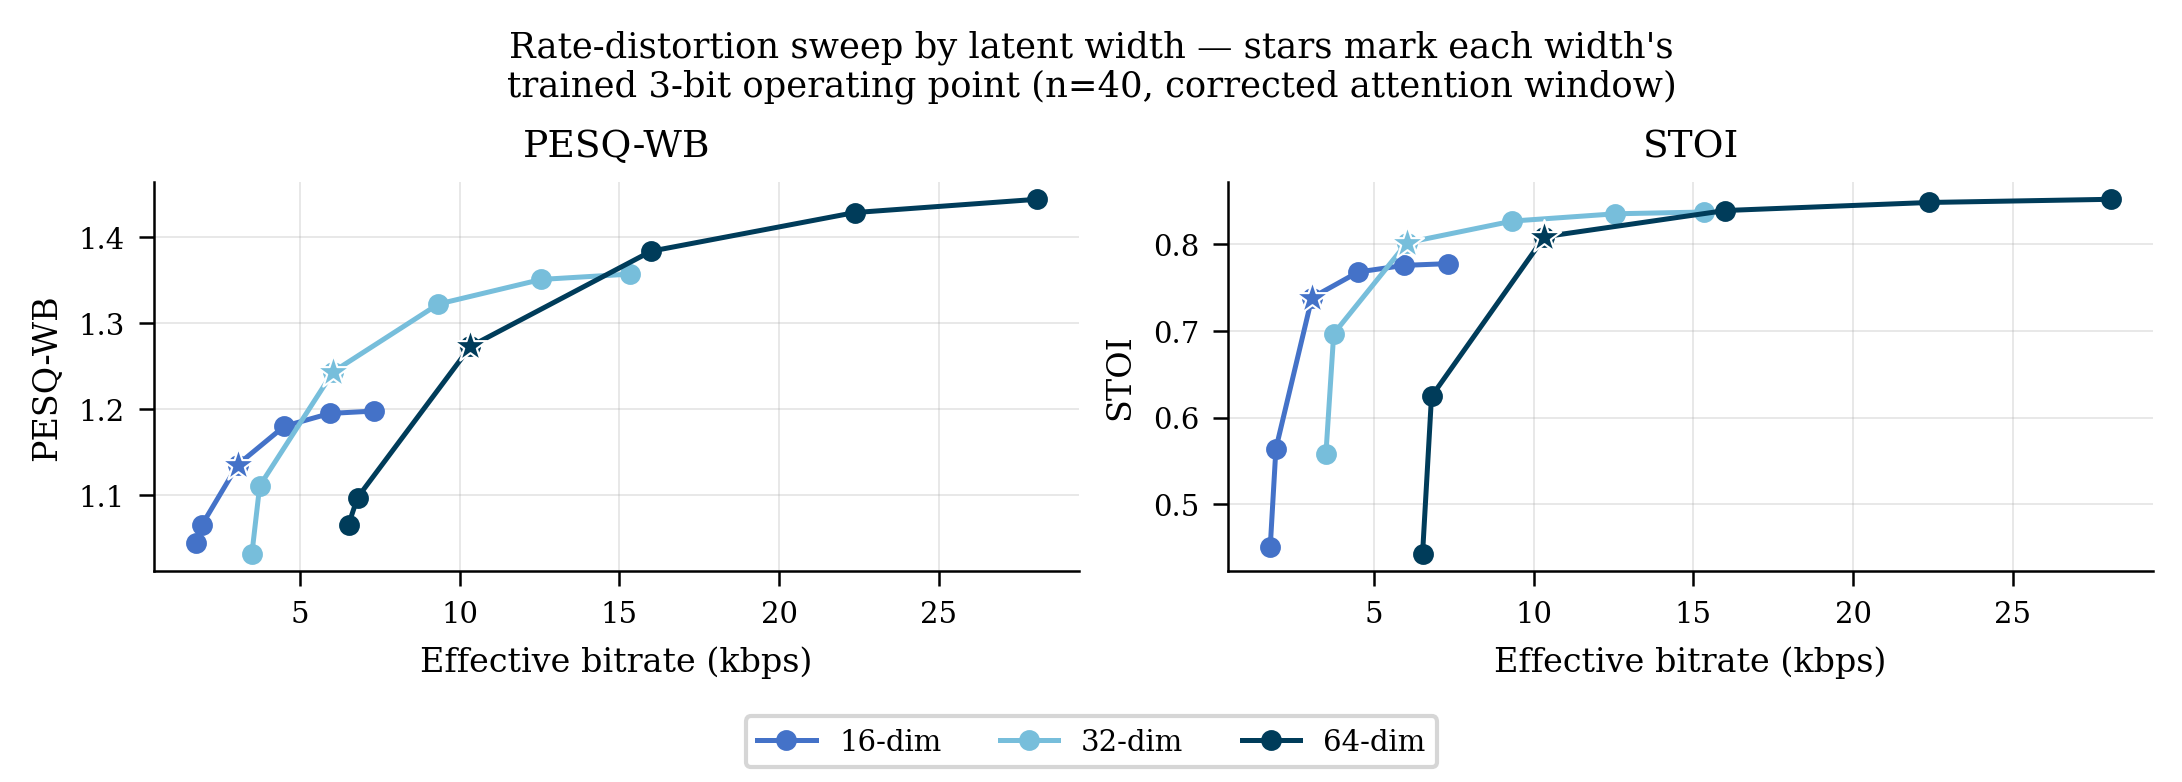
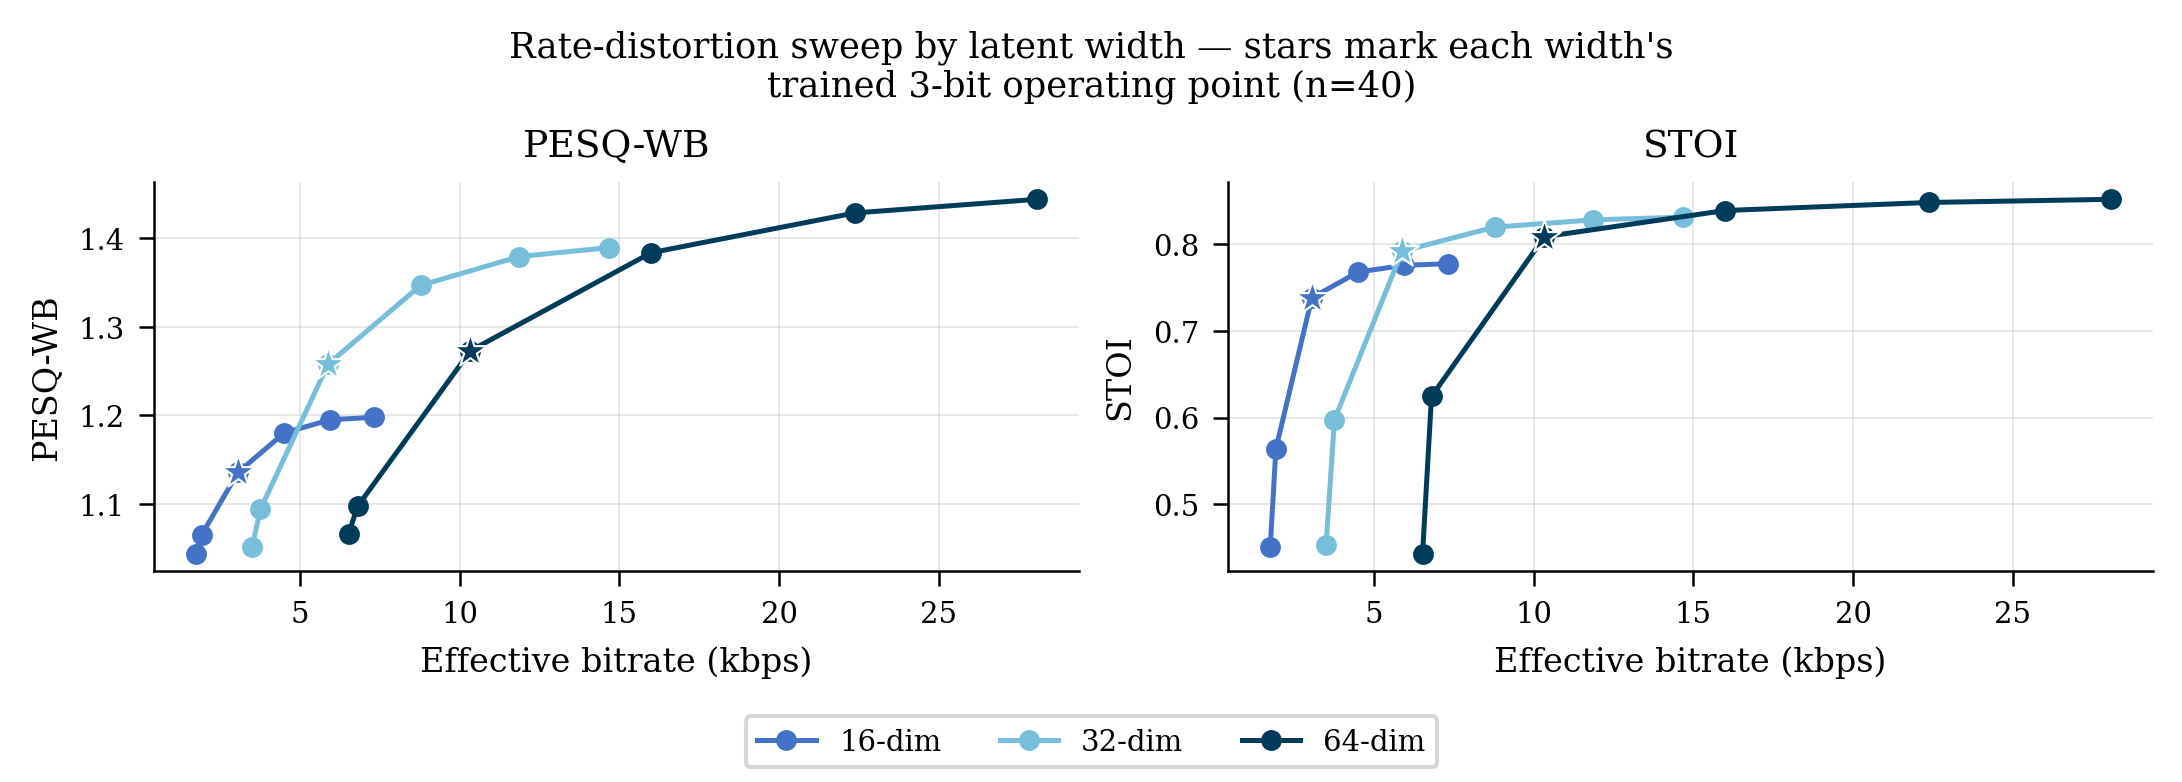
fix: update R-D sweep by width figure and correct attention window description

diff --git a/scripts/figures/data_loader.py b/scripts/figures/data_loader.py
@@ -205,11 +205,17 @@ def _load_rd_sweep(path: Path):
 
 # ---- R-D sweep by latent width (16 / 32 / 64-dim, per-speaker CSVs) -------
 
-# 32-dim uses the corrected-attention-window run (#27) so all three widths
-# are evaluated under the same fixed causal mask.
+# All three widths must share the same attention-window behavior to be
+# comparable. 16-dim and 64-dim (#35/#41) were only ever trained/evaluated
+# pre-#27 (the triu/tril window-mask bug -- unbounded causal attention, not
+# the intended 200-frame window); there is no _16_fixed/_64_fixed
+# counterpart. So 32-dim here is the matching pre-#27 run from the same
+# 2026-08-10 n=40 batch (comparisons/2026-08-10_paper_numbers/), not the
+# post-fix temporal_phaseG_fixed checkpoint -- using the latter would compare
+# a differently-trained 32-dim model against unfixed 16/64-dim ones.
 _RD_SWEEP_WIDTH_FILES = {
     '16-dim': '2026-08-10_rd_sweep_16dim/rd_sweep_16dim.csv',
-    '32-dim': '2026-08-13_rd_sweep_fixed/rd_sweep_fixed.csv',
+    '32-dim': '2026-08-10_paper_numbers/rd_sweep_n40.csv',
     '64-dim': '2026-08-10_rd_sweep_64dim/rd_sweep_64dim.csv',
 }
 

diff --git a/scripts/figures/plots.py b/scripts/figures/plots.py
@@ -905,5 +905,5 @@ def fig_24_rd_sweep_width(data: dict) -> plt.Figure:
 
     style.legend(fig, ax=axes[0], ncol=3)
     fig.suptitle('Rate-distortion sweep by latent width — stars mark each width\'s\n'
-                 'trained 3-bit operating point (n=40, corrected attention window)', fontsize=8.5)
+                 'trained 3-bit operating point (n=40)', fontsize=8.5)
     return fig
